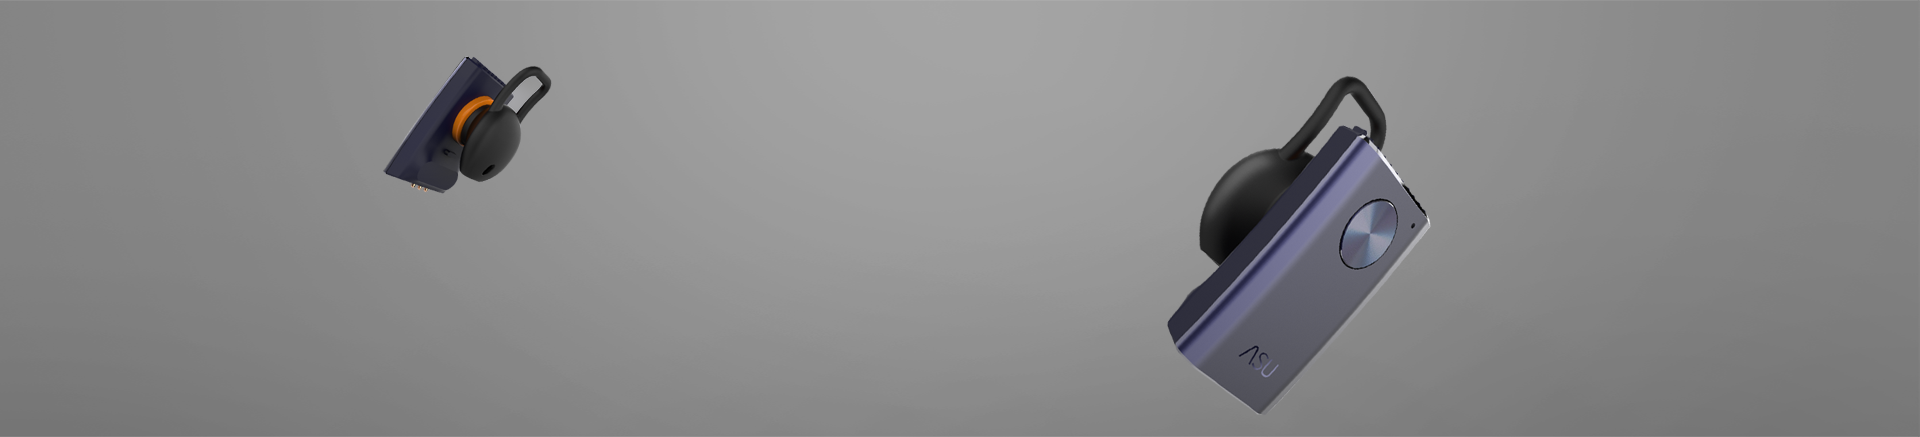
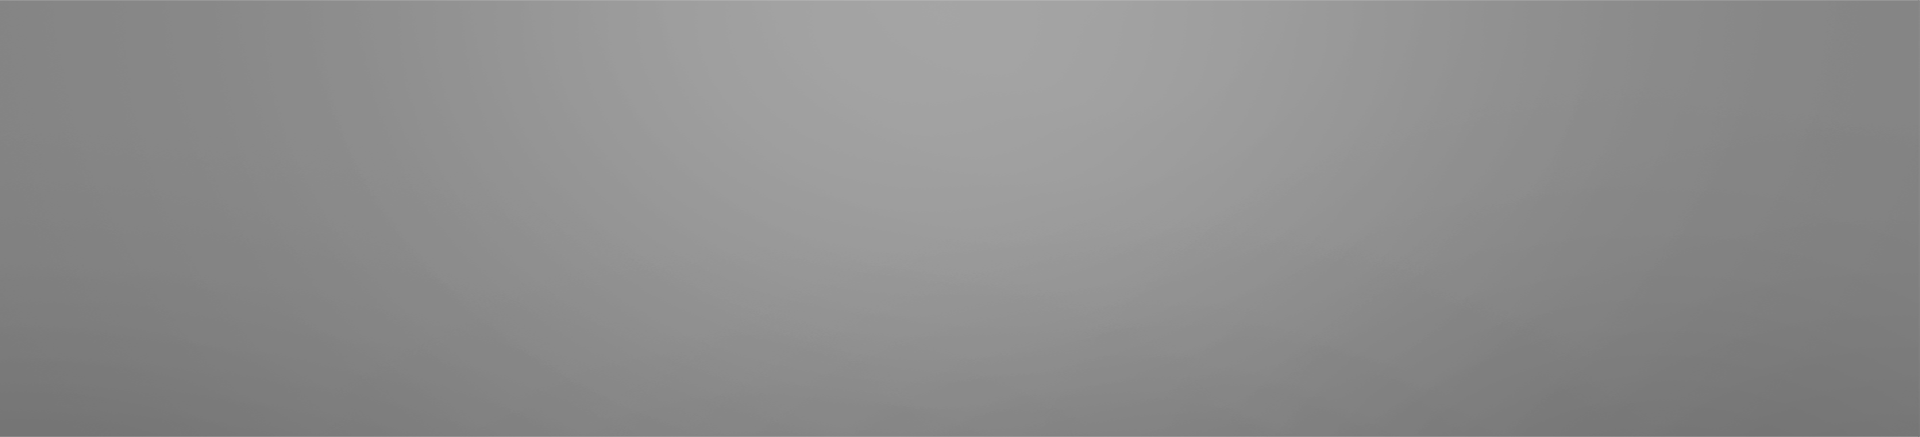
图片

Changed region(s): [[0.5938, 0.1785, 0.75, 0.9519], [0.1875, 0.119, 0.3125, 0.4462]]

diff --git a/templates/home.html b/templates/home.html
@@ -29,7 +29,6 @@
                             <i class="fa fa-angle-right" aria-hidden="true"></i>
                         </a>
                     </div>
-                    <img class="sider-2img" src="/static/img/slider/sider2.png" alt="">
                 </div>
             </div>
             <!-- slider 2 end-->
@@ -66,6 +65,20 @@
             </div>
             <!-- slider 3 end-->
             <div class="swiper-slide">
+                <div class="sider sider4">
+                    <div class="shop-link shop-link6 black">
+                            <div class="fs20 image-text">机标一体&nbsp;业界风范</div>
+                            <div class="fs40 image-text mb50">首个全金属外壳蓝牙耳机</div>
+                            
+                        <a class="learn_more" href="{% url 'product:cast2' %}">查看详情</a>
+                        <a class="now-bye orange-bg common-btn" href="{% url 'book:buy' %}">立即购买
+                            <i class="fa fa-angle-right" aria-hidden="true"></i>
+                        </a>
+                    </div>
+                    <img class="sider4-img" src="/static/img/slider/erji.png" alt="">
+                </div>
+            </div>
+            <div class="swiper-slide">
                 <div class="sider sider2">
                      <img src="/static/img/slider/watch3.png" />
                      <img class="projective" src="/static/img/slider/projective.png"/> 
@@ -83,20 +96,7 @@
             
             
             <!-- slider 4 end-->
-            <div class="swiper-slide">
-                <div class="sider sider4">
-                    <div class="shop-link shop-link6 black">
-                            <div class="fs20 image-text">机标一体&nbsp;业界风范</div>
-                            <div class="fs40 image-text mb50">首个全金属外壳蓝牙耳机</div>
-                            
-                        <a class="learn_more" href="{% url 'product:cast2' %}">查看详情</a>
-                        <a class="now-bye orange-bg common-btn" href="{% url 'book:buy' %}">立即购买
-                            <i class="fa fa-angle-right" aria-hidden="true"></i>
-                        </a>
-                    </div>
-                    <img class="sider4-img" src="/static/img/slider/erji.png" alt="">
-                </div>
-            </div>
+            
             <!-- slider 5 end-->
         </div>
         <!-- Add Pagination -->

diff --git a/static/css/hostpage.css b/static/css/hostpage.css
@@ -103,7 +103,7 @@
     background: url(/static/img/slider/slider1.jpg);
   } 
   .sider1{
-background:unsert;
+background:url(/static/img/slider/slider0.jpg);
 }
 .sider2{
   background: url(/static/img/slider/slider3.png);
@@ -137,10 +137,6 @@ background:unsert;
   .shop-link3{
     bottom: 50%;
     transform: translateY(50%);
-    color: #333!important;
-  }
-  .shop-link3 .learn_more{
-    color: #333;
   }
   .shop-link4{
     left: 54%;
@@ -291,25 +287,8 @@ transform-origin: 43% 49%;
 .sider .image-text{
   font-weight: 100;
 }
-.sider-2img{
-  height: 100%;
-  position: absolute;
-  left: 52%;
-  opacity: 0;
-  filter: alpha(opacity=0)\9;
-  -webkit-transform: translateX(-35%);
-  -ms-transform: translateX(-35%);
-  transform: translateX(-35%);
-}
 
-.swiper-slide-active .sider-2img{
-  transition: opacity 3s, transform 3s;
-  opacity: 1;
-  filter: alpha(opacity=100)\9;
-  -webkit-transform: translateX(-20%);
-  -ms-transform: translateX(-20%);
-  transform: translateX(-20%);
-}
+
 .sider2 img{
   position: absolute;
   top: 0;
@@ -335,11 +314,7 @@ transform-origin: 43% 49%;
   .sider4-img{
     height: 50%;
   }
-  .sider-2img{
-    position: absolute;
-    left: 47%;
-    height: 96%;
-  }
+
   .sider2 img{
     left: -8%;
   }

diff --git a/static/products/css/cast2.css b/static/products/css/cast2.css
@@ -466,7 +466,13 @@
     position: absolute;
     top: 50%;
     left: 50%;
-    transform: translate(-60%,-50%);
+    width: 900px;
+    transform: translate(-50%,-50%);
+    padding:30px 300px 30px 0;
+    background:  url(/static/img/product/erjicanshu.png);
+    background-position:center right!important;
+    background-repeat:no-repeat!important;
+    background-size:auto 100%;
   }
   .learn_more .fa-angle-right {
     font-size: 18px;
@@ -521,7 +527,7 @@
     margin-top: 80px;
     text-align: center;
   }
-  .show1,.show3{
+  .show1{
       position: absolute;
       top: 50%;
   }
@@ -558,12 +564,14 @@ section.move .img360-text{
     transform: translateY(0);
 }
 
-  .show2,.show4{
+  .show2,.show4,.show3{
     position: absolute;
     top: 50%;
     left:10%;
 }
-
+.mb-40{
+    margin-bottom: 40px;
+}
 
   dl{
       display: inline-block;

diff --git a/page/templates/page/faith.html b/page/templates/page/faith.html
@@ -10,10 +10,10 @@
  {% endblock %}
 {% block content %}
 <section class="main">
-    <div class="text-center image-text">
+    <div class="text-left image-text main-text">
             <h2 class="fs60">Interactive of Everything</h2>
             <p class="f16 l2">以“造物者”的初心接受所有，保持敞开，充满激情，对无限可能的未来，
-                笃实而虔诚。改变的是过程，不变的是心态。<br/>前方，永远都是新的起点！</p>
+                笃实而虔诚。<br/>改变的是过程，不变的是心态。前方，永远都是新的起点！</p>
             <h1 class="fs60">Aspiration</h1>
             <p class="f16 l2">强烈愿望表现为真诚的态度，感动的情绪，正确的表达</p>
     </div>

diff --git a/product/templates/product/cast2.html b/product/templates/product/cast2.html
@@ -610,7 +610,7 @@
             <div class="parts-text">
                 <div class="white">
                     <div class="image-text show-t">首个全金属外壳蓝牙耳机</div>
-                    <div class="show-msg mb-60">免提接打电话&nbsp;｜&nbsp;音频外放 </div>
+                    <div class="show-msg mb-40">免提接打电话&nbsp;｜&nbsp;音频外放 </div>
                     <div>
                         <span class="image-text show-t">199</span>元／起售
                         <a class="learn_more" href="javascript:;">了解更多
@@ -618,7 +618,6 @@
                         </a>
                     </div>
                 </div>
-    
             </div>
         </div>
     

diff --git a/static/page/css/aboutus.css b/static/page/css/aboutus.css
@@ -29,7 +29,6 @@
   }
    /* deteil */
      section.main {
-    padding-top: 100px;
     position: relative;
     background-size: cover!important;
     background-position: top center!important;
@@ -124,6 +123,11 @@
   .swiper-pagination-custom,
   .swiper-container-horizontal > .swiper-pagination-bullets {
     bottom: 170px;
+  }
+  .main-text{
+    position: absolute;
+    top: 50%;
+    transform: translateY(-50%);
   }
   .swiper-slide {
     padding-bottom: 140px;

diff --git a/static/js/cast2.js b/static/js/cast2.js
@@ -2,8 +2,8 @@
 $(document).ready(function () {
     /* 文字定位 */
     var positionValue = $('.logo').offset().left;
-    $('.show1,.show3').css('right',  positionValue + 'px');
-    $('.show2,.show4').css('left',  positionValue + 'px');
+    $('.show1').css('right',  positionValue + 'px');
+    $('.show2,.show4,.show3').css('left',  positionValue + 'px');
     transition(360);
     var height = window.innerHeight;
     var width = window.innerWidth;

diff --git a/static/page/js/aboutus.js b/static/page/js/aboutus.js
@@ -2,6 +2,8 @@ $(document).ready(function(){
     var windowHeight = window.innerHeight;
     $('section').css('height', windowHeight - 100 + 'px');
     $('.swiper-wrapper').css('height', windowHeight+ 'px');
+    var positionValue = $('.logo').offset().left;
+    $('.main-text').css('left',  positionValue + 'px');
     /* 
      *隐藏菜单切换 
      */
